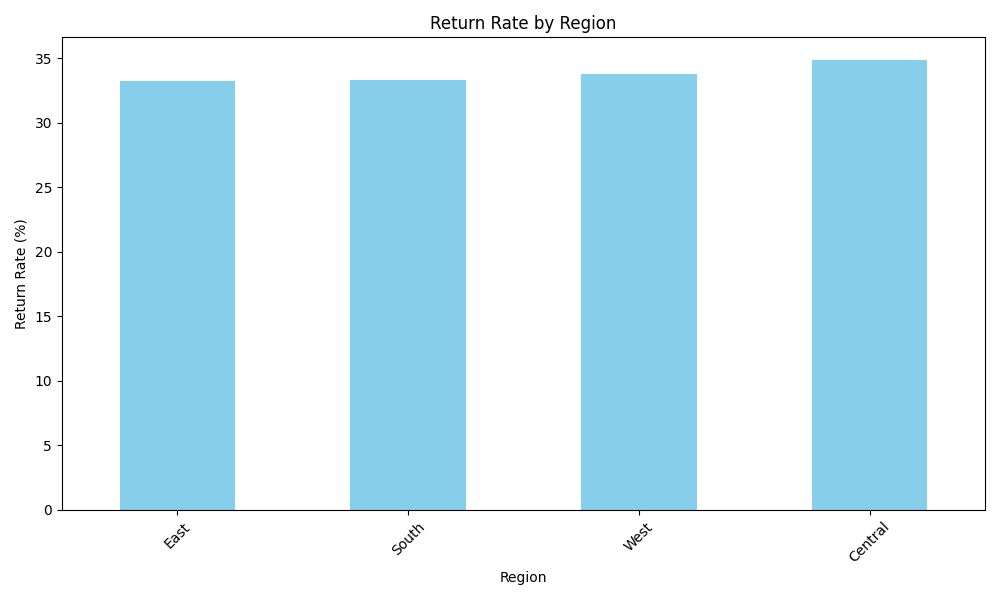
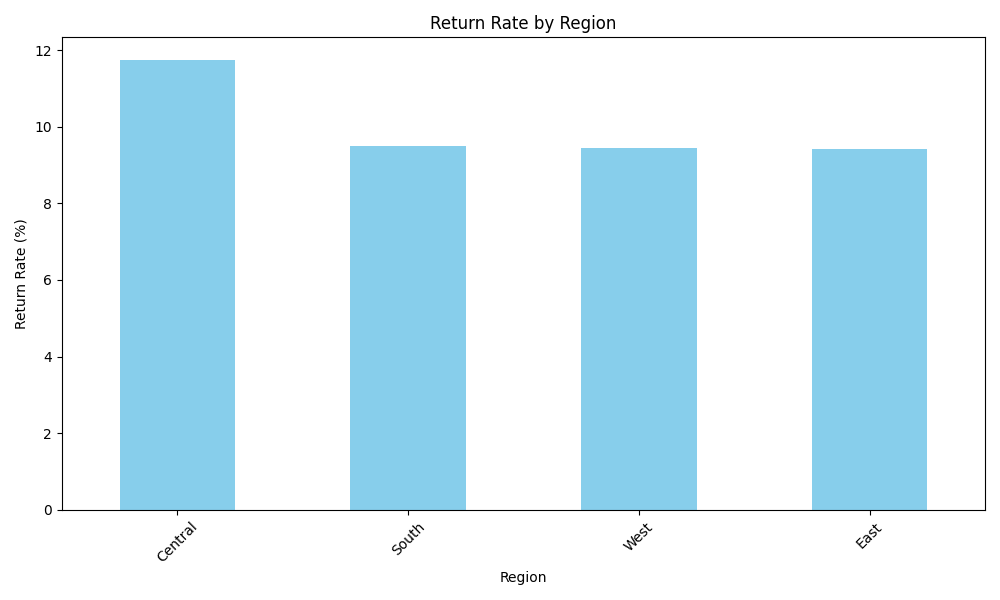
fix: seperate task of doing and thinking

diff --git a/frontend/components/ChatInterface.tsx b/frontend/components/ChatInterface.tsx
@@ -1,12 +1,12 @@
 'use client';
 
 import React, { useState, useRef, useEffect } from 'react';
-import { Send, User, Bot, Loader2, BarChart2, Sparkles } from 'lucide-react';
+import { Send, User, Bot, Loader2, BarChart2, Sparkles, CheckCircle2, Brain, Zap, Users } from 'lucide-react';
 import { Button } from '@/components/ui/button';
 import { Input } from '@/components/ui/input';
 import { Card } from '@/components/ui/card';
 import { ScrollArea } from '@/components/ui/scroll-area';
-import { api, ExecutionResult, Visualization } from '@/lib/api';
+import { api, ExecutionResult, Visualization, ExecutionPlan } from '@/lib/api';
 import ChartRenderer from '@/components/ChartRenderer';
 import { cn } from '@/lib/utils';
 
@@ -22,6 +22,7 @@ const GEMINI_MODELS = [
 interface Message {
   role: 'user' | 'assistant';
   content: string;
+  plan?: ExecutionPlan;
   visualization?: Visualization;
   timestamp: Date;
 }
@@ -41,6 +42,7 @@ export default function ChatInterface({ sessionId }: ChatInterfaceProps) {
   const [input, setInput] = useState('');
   const [isLoading, setIsLoading] = useState(false);
   const [selectedModel, setSelectedModel] = useState('gemini-2.0-flash');
+  const [showMode, setShowMode] = useState<'both' | 'thinking' | 'doing'>('both');
   const messagesEndRef = useRef<HTMLDivElement>(null);
 
   const scrollToBottom = () => {
@@ -70,10 +72,11 @@ export default function ChatInterface({ sessionId }: ChatInterfaceProps) {
     try {
       const response = await api.query(sessionId, userMessage, selectedModel);
       
-      // Add AI response
+      // Add AI response with plan
       setMessages(prev => [...prev, {
         role: 'assistant',
         content: response.result.answer,
+        plan: response.plan,
         visualization: response.result.visualization,
         timestamp: new Date()
       }]);
@@ -114,7 +117,68 @@ export default function ChatInterface({ sessionId }: ChatInterfaceProps) {
                   <span>{msg.role === 'assistant' ? 'AI Analyst' : 'You'}</span>
                 </div>
                 
-                {/* Text Content */}
+                {/* Multi-Agent Workflow */}
+                {msg.plan && (
+                  <div className="mb-4 space-y-3">
+                    {/* Multi-Agent Header */}
+                    <div className="flex items-center gap-2 text-xs font-semibold text-primary">
+                      <Users size={14} />
+                      <span>MULTI-AGENT WORKFLOW</span>
+                    </div>
+
+                    {/* Understanding */}
+                    <div className="p-3 bg-blue-500/10 border border-blue-500/30 rounded-md">
+                      <div className="text-xs font-semibold text-blue-400 mb-1">Understanding</div>
+                      <div className="text-xs text-muted-foreground italic">
+                        "{msg.plan.query_understanding}"
+                      </div>
+                    </div>
+
+                    {/* Thinking */}
+                    {msg.plan.thinking && (showMode === 'both' || showMode === 'thinking') && (
+                      <div className="p-3 bg-purple-500/10 border border-purple-500/30 rounded-md">
+                        <div className="flex items-center gap-2 text-xs font-semibold text-purple-400 mb-2">
+                          <Brain size={14} />
+                          <span>Thinking</span>
+                        </div>
+                        <div className="text-xs text-muted-foreground">
+                          {msg.plan.thinking}
+                        </div>
+                      </div>
+                    )}
+
+                    {/* Doing (Execution Steps) */}
+                    {(showMode === 'both' || showMode === 'doing') && (
+                      <div className="p-3 bg-green-500/10 border border-green-500/30 rounded-md">
+                        <div className="flex items-center gap-2 text-xs font-semibold text-green-400 mb-2">
+                          <Zap size={14} />
+                          <span>Doing</span>
+                        </div>
+                        <div className="space-y-2">
+                          {msg.plan.steps.map((step, idx) => (
+                            <div key={idx} className="flex items-start gap-2 text-xs">
+                              <CheckCircle2 size={14} className="mt-0.5 text-green-500 flex-shrink-0" />
+                              <div>
+                                <span className="font-medium">Step {step.step_number}:</span> {step.description}
+                                {step.reasoning && (
+                                  <div className="text-muted-foreground ml-4 mt-0.5">↳ {step.reasoning}</div>
+                                )}
+                              </div>
+                            </div>
+                          ))}
+                        </div>
+                        {msg.plan.requires_visualization && (
+                          <div className="mt-2 text-xs text-green-400 flex items-center gap-1">
+                            <BarChart2 size={12} />
+                            <span>Visualization: {msg.plan.visualization_type || 'auto'}</span>
+                          </div>
+                        )}
+                      </div>
+                    )}
+                  </div>
+                )}
+                
+                {/* Result */}
                 <div className="prose prose-invert max-w-none text-sm whitespace-pre-wrap leading-relaxed">
                   {msg.content}
                 </div>
@@ -145,21 +209,39 @@ export default function ChatInterface({ sessionId }: ChatInterfaceProps) {
       </div>
 
       <div className="p-4 bg-background/80 backdrop-blur-sm border-t border-border sticky bottom-0">
-        {/* Model Selector */}
-        <div className="flex items-center gap-2 mb-3 max-w-4xl mx-auto">
-          <Sparkles className="w-4 h-4 text-primary" />
-          <select
-            value={selectedModel}
-            onChange={(e) => setSelectedModel(e.target.value)}
-            className="flex-1 px-3 py-2 text-sm bg-secondary border border-border rounded-md focus:outline-none focus:ring-2 focus:ring-ring"
-            disabled={isLoading}
-          >
-            {GEMINI_MODELS.map((model) => (
-              <option key={model.value} value={model.value}>
-                {model.label} - {model.description}
-              </option>
-            ))}
-          </select>
+        {/* Controls Row */}
+        <div className="flex items-center gap-3 mb-3 max-w-4xl mx-auto">
+          {/* Model Selector */}
+          <div className="flex items-center gap-2 flex-1">
+            <Sparkles className="w-4 h-4 text-primary flex-shrink-0" />
+            <select
+              value={selectedModel}
+              onChange={(e) => setSelectedModel(e.target.value)}
+              className="flex-1 px-3 py-2 text-sm bg-secondary border border-border rounded-md focus:outline-none focus:ring-2 focus:ring-ring"
+              disabled={isLoading}
+            >
+              {GEMINI_MODELS.map((model) => (
+                <option key={model.value} value={model.value}>
+                  {model.label} - {model.description}
+                </option>
+              ))}
+            </select>
+          </div>
+
+          {/* Show Mode Selector */}
+          <div className="flex items-center gap-2">
+            <Users className="w-4 h-4 text-primary flex-shrink-0" />
+            <select
+              value={showMode}
+              onChange={(e) => setShowMode(e.target.value as 'both' | 'thinking' | 'doing')}
+              className="px-3 py-2 text-sm bg-secondary border border-border rounded-md focus:outline-none focus:ring-2 focus:ring-ring"
+              disabled={isLoading}
+            >
+              <option value="both">🧠 + ⚡ Both</option>
+              <option value="thinking">🧠 Thinking Only</option>
+              <option value="doing">⚡ Doing Only</option>
+            </select>
+          </div>
         </div>
 
         <form onSubmit={handleSend} className="relative flex items-center gap-2 max-w-4xl mx-auto">

diff --git a/frontend/lib/api.ts b/frontend/lib/api.ts
@@ -10,6 +10,7 @@ export interface ExecutionStep {
 
 export interface ExecutionPlan {
   query_understanding: string;
+  thinking?: string;
   steps: ExecutionStep[];
   expected_output_type: string;
   requires_visualization: boolean;

diff --git a/backend/utils/prompts.py b/backend/utils/prompts.py
@@ -17,8 +17,16 @@ You will receive:
 - Data schema (columns, types, sample data)
 - Conversation history (for context)
 
+IMPORTANT: 
+- Carefully examine the available columns and their sample data
+- Be creative in finding proxy columns (e.g., "Returned" column for return rate, status indicators, etc.)
+- If an exact column doesn't exist, look for alternative ways to answer the question using available data
+- Check column names case-insensitively (Returned, returned, RETURNED are all valid)
+- Look at sample data to understand what values exist in each column
+
 You must output a structured plan with:
 - Query understanding (rephrase what the user wants)
+- Thinking (your internal reasoning - explain your approach and what columns/data you'll use)
 - Step-by-step execution steps
 - Expected output type (table/chart/text)
 - Whether visualization is required and what type
@@ -28,6 +36,7 @@ Be specific and clear. Think step-by-step. Consider data types and what operatio
 Example output format:
 {
   "query_understanding": "User wants to find the top 5 customers by total sales",
+  "thinking": "I will analyze the available columns to identify customer and sales data. Based on the schema, I can see 'Customer Name' and 'Sales' columns. I'll group by customer, aggregate sales, sort descending, and take top 5.",
   "steps": [
     {"step_number": 1, "description": "Group data by Customer Name", "reasoning": "Need to aggregate per customer"},
     {"step_number": 2, "description": "Sum the Sales column for each customer", "reasoning": "Calculate total sales"},
@@ -58,11 +67,20 @@ You have access to:
 Guidelines:
 - Write efficient, clear Python code
 - Handle edge cases (null values, data type issues)
+- Be creative: look for columns with similar names (case-insensitive search)
+- If exact column doesn't exist, check for variations (e.g., "Returned" for return data, "Status" for order status)
+- Use df.columns to check available columns before accessing them
 - If visualization is required, create it using Plotly (preferred) or Matplotlib
-- Return results in a user-friendly format
-- Provide context with the answer (e.g., "Based on the data, the top 5 customers are...")
+- Return results in a user-friendly format with context
+- Always try to answer the question creatively rather than saying "not possible"
 
-Be precise and accurate. Test your logic mentally before generating code.
+Example creative solutions:
+- For "return rate": Look for "Returned", "Return Status", or any Yes/No column indicating returns
+- For "categories": Look for "Category", "Product Category", "Type", etc.
+- For "dates": Look for any column with date/time data
+- Use .str.contains() for flexible string matching in column names
+
+Be precise and accurate. Always examine the data first before concluding something is impossible.
 """
 
 

diff --git a/backend/models/schemas.py b/backend/models/schemas.py
@@ -34,6 +34,7 @@ class ExecutionStep(BaseModel):
 class ExecutionPlan(BaseModel):
     """Planner agent's output structure."""
     query_understanding: str
+    thinking: Optional[str] = None  # Planner's reasoning/thinking process
     steps: List[ExecutionStep]
     expected_output_type: str  # e.g., "table", "chart", "text"
     requires_visualization: bool = False
